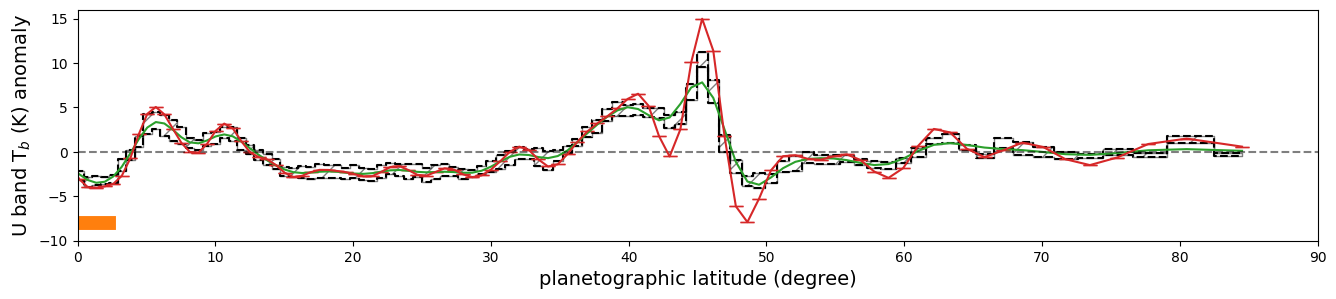
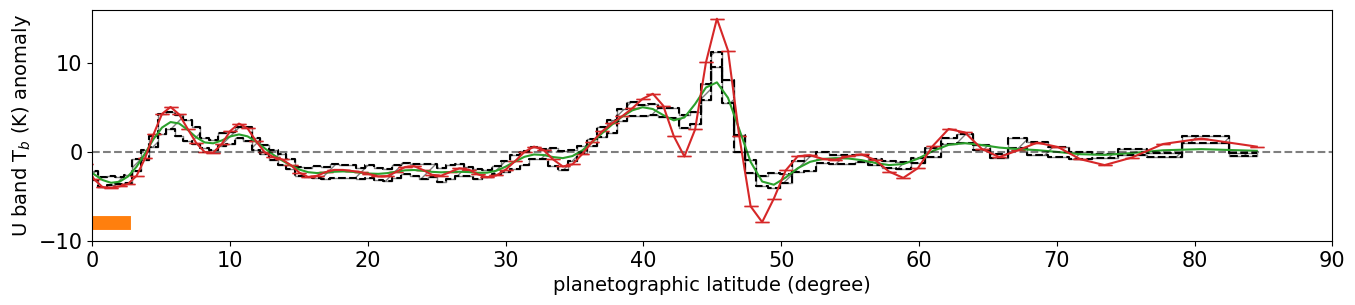
add optical depth

Changed region(s): [[0.0, 0.0301, 1.0, 0.8729], [0.399, 0.903, 0.6445, 0.9632], [0.0307, 0.3311, 0.0614, 0.3612]]

diff --git a/optical_depth.py b/optical_depth.py
@@ -1,0 +1,50 @@
+#! /usr/bin/env python3.6
+from pylab import *
+from netCDF4 import Dataset
+from snapy.harp.utils import get_ray_out
+
+def optical_depth(case, band = '', ang = None):
+  datafile = '%s-main.nc' % case
+  data = Dataset(datafile, 'r')
+  pres = data['press'][0,:,0,0]/1.E5 # pa -> bar
+  dlnp = log(pres[0]) - log(pres[1])
+  dlnp = log(pres[1]) - log(pres[2])
+  x1f = data['x1f'][:]
+
+  inpfile = '%s.inp' % case
+  amu, aphi = get_ray_out(inpfile, band)
+  btau = data['%stau' % band][0,:,0,0]
+
+  tau = cumsum(btau[::-1])[::-1]
+  return pres, tau
+
+def plot_optical_depth(ax, case, ang = None):
+  pres, wfunc1 = optical_depth(case, 'b1', ang)
+  pres, wfunc2 = optical_depth(case, 'b2', ang)
+  pres, wfunc3 = optical_depth(case, 'b3', ang)
+  pres, wfunc4 = optical_depth(case, 'b4', ang)
+  pres, wfunc5 = optical_depth(case, 'b5', ang)
+  pres, wfunc6 = optical_depth(case, 'b6', ang)
+
+  ax.plot(wfunc1, pres, label = 'S band')
+  ax.plot(wfunc2, pres, label = 'C band')
+  ax.plot(wfunc3, pres, label = 'X band')
+  ax.plot(wfunc4, pres, label = 'U band')
+  ax.plot(wfunc5, pres, label = 'K band')
+  ax.plot(wfunc6, pres, label = 'Q band')
+  ax.legend(fancybox=True, framealpha=0.5)
+
+  ax.set_ylim([50., 0.5])
+  ax.set_xlim([0, 10.])
+  ax.set_yscale('log')
+  ax.set_xlabel('optical depth', fontsize = 12)
+  ax.set_ylabel('Pressure (bar)', fontsize = 12)
+
+if __name__ == '__main__':
+  case = 'build/saturn_vla_inversion_wfunc'
+  #case = '../build_disk/saturn_vla-disk-1.6'
+  figure(1, figsize = (8, 8))
+  ax = axes()
+  plot_optical_depth(ax, case, 48.2)
+  #show()
+  savefig('figs/optical_depth.png', bbox_inches = 'tight')

diff --git a/beam_deconvolve_v2.py b/beam_deconvolve_v2.py
@@ -136,6 +136,7 @@ sig_conv = ifft(fft(sig_avg, npad*num_grids) \
 #fig, axs = subplots(2, 1, figsize = (12,8))
 figure(1, figsize = (16,3))
 ax = axes()
+ax.tick_params(axis='both', which='major', labelsize=15)
 
 # observation
 #ax.step(ydis, tb, 'C0')
